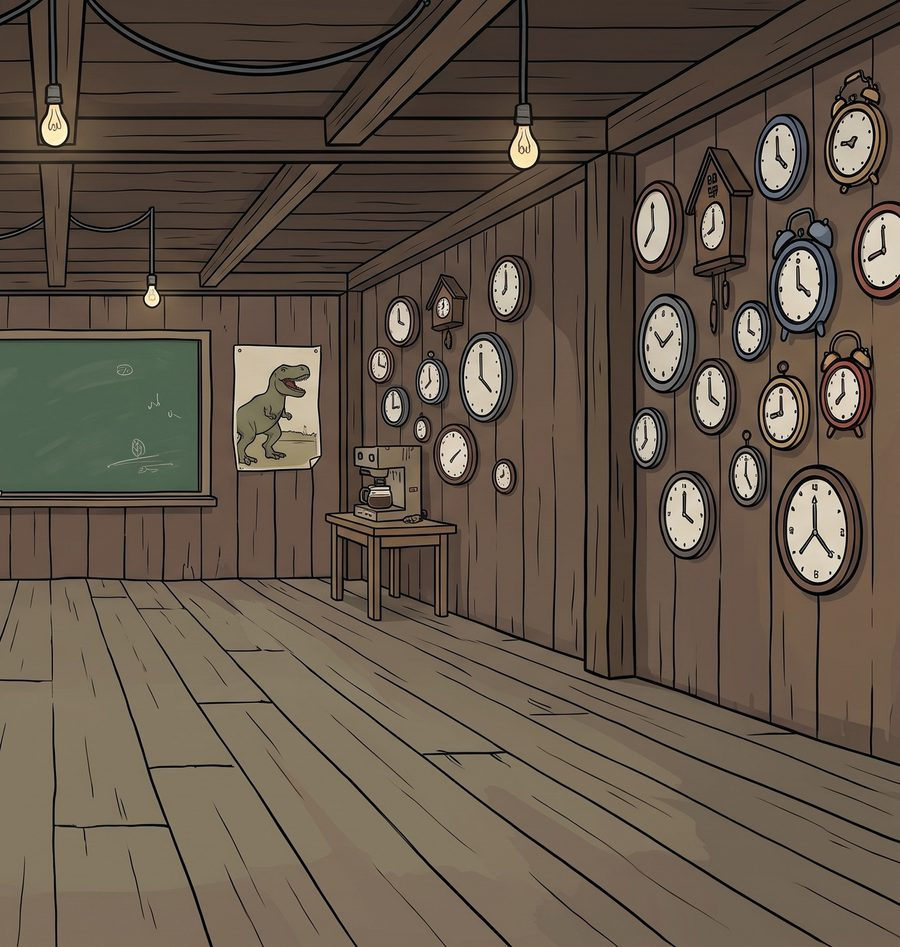
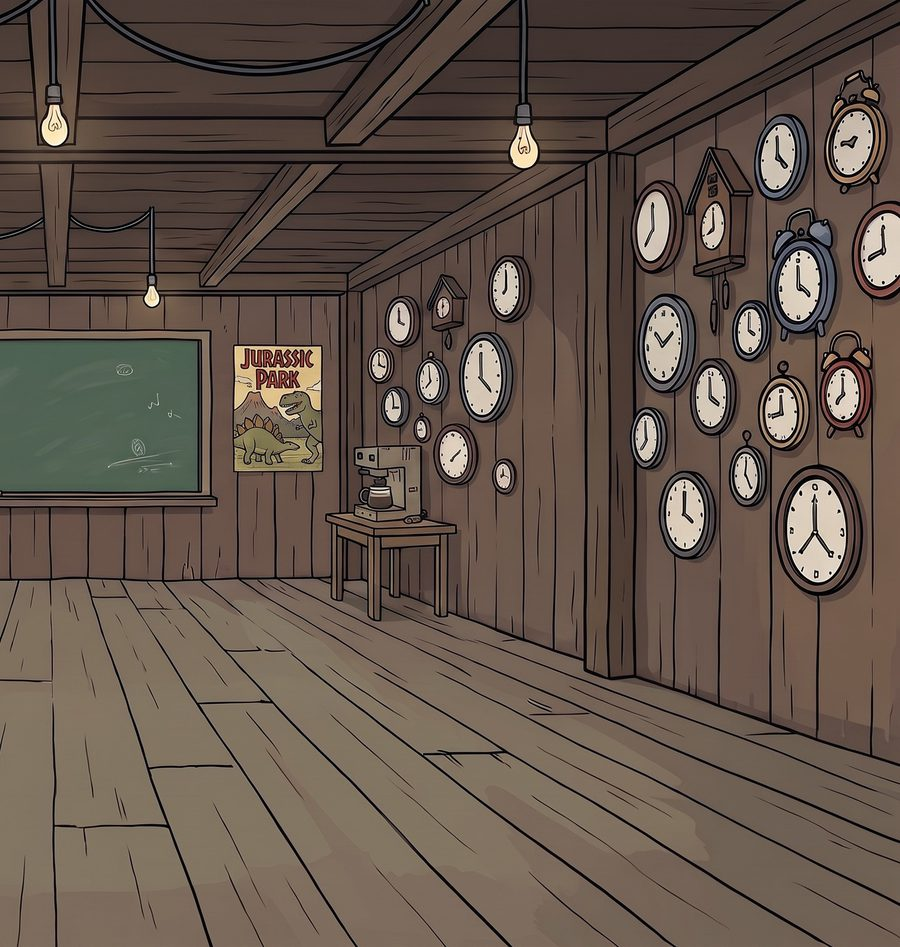
Stickman 設定：實驗室半面牆圖的海報改成 JURASSIC PARK（暴龍＋劍龍）

diff --git a/stickman/characters/index.html b/stickman/characters/index.html
@@ -160,7 +160,7 @@ All four panels show the same room, the same objects and the same colors, as if 
 <div class="grid" style="margin-top:16px">
 <figure><img loading="lazy" src="img/LAB_MACHINE_L.jpg" alt="LAB_MACHINE_L：北牆（時光機那面）左半"><figcaption><b>LAB_MACHINE_L</b>：北牆（時光機那面）左半。時鐘、咖啡機；左側牆：海報、黑板；右緣：時光機左半。</figcaption></figure><figure><img loading="lazy" src="img/LAB_MACHINE_R.jpg" alt="LAB_MACHINE_R：北牆（時光機那面）右半"><figcaption><b>LAB_MACHINE_R</b>：北牆（時光機那面）右半。時光機、拉桿、控制台；右側牆：工作桌、窗。</figcaption></figure><figure><img loading="lazy" src="img/LAB_DOOR_L.jpg" alt="LAB_DOOR_L：南牆（大門那面）左半"><figcaption><b>LAB_DOOR_L</b>：南牆（大門那面）左半。行軍床、窗、門（右緣）；左側牆：窗。</figcaption></figure><figure><img loading="lazy" src="img/LAB_DOOR_R.jpg" alt="LAB_DOOR_R：南牆（大門那面）右半"><figcaption><b>LAB_DOOR_R</b>：南牆（大門那面）右半。門（左緣）、空牆；右側牆：黑板。</figcaption></figure><figure><img loading="lazy" src="img/LAB_CHALK_L.jpg" alt="LAB_CHALK_L：西牆（黑板那面）左半"><figcaption><b>LAB_CHALK_L</b>：西牆（黑板那面）左半。黑板左段；左側牆：門。</figcaption></figure><figure><img loading="lazy" src="img/LAB_CHALK_R.jpg" alt="LAB_CHALK_R：西牆（黑板那面）右半"><figcaption><b>LAB_CHALK_R</b>：西牆（黑板那面）右半。黑板右段、海報、咖啡機；右側牆：時鐘。</figcaption></figure><figure><img loading="lazy" src="img/LAB_BENCH_L.jpg" alt="LAB_BENCH_L：東牆（工作桌那面）左半"><figcaption><b>LAB_BENCH_L</b>：東牆（工作桌那面）左半。工作桌、窗；左側牆：控制台。</figcaption></figure><figure><img loading="lazy" src="img/LAB_BENCH_R.jpg" alt="LAB_BENCH_R：東牆（工作桌那面）右半"><figcaption><b>LAB_BENCH_R</b>：東牆（工作桌那面）右半。窗、行軍床；右側牆：窗。</figcaption></figure>
 </div>
-<p class="note">實驗室格子附參考圖用這 8 張（Flow 裡同名）：每張＝正面牆的左半或右半＋同一側的側牆，符合上面的鏡頭規則。做法：每面牆先畫一張 10 × 9 公尺的整面牆（角落到角落），再從正面牆中線切成左右兩半（重疊約 5%），等於同一位置換窄鏡頭。舊的 8 × 6 整面牆圖（LAB_*_WALL）不再使用。跟地圖小出入：控制台畫在北牆偏右、沒貼緊東北角；東牆右半的行軍床擺在正面牆前，不是順著側牆。</p>
+<p class="note">實驗室格子附參考圖用這 8 張（Flow 裡同名）：每張＝正面牆的左半或右半＋同一側的側牆，符合上面的鏡頭規則。做法：每面牆先畫一張 10 × 9 公尺的整面牆（角落到角落），再從正面牆中線切成左右兩半（重疊約 5%），等於同一位置換窄鏡頭。舊的 8 × 6 整面牆圖（LAB_*_WALL）不再使用。海報＝JURASSIC PARK（暴龍＋劍龍＋片名）：黑板牆和時光機牆兩張原圖照原樣重畫、只換海報（2026-11-14）。跟地圖小出入：控制台畫在北牆偏右、沒貼緊東北角；東牆右半的行軍床擺在正面牆前，不是順著側牆。</p>
 <details><summary>四面整面牆的 prompt（10 × 9 公尺版，切半前的原圖）</summary><p class="note">在 Flow 各開一張，16:9；附舊牆面圖只取畫風和東西長相，位置大小照文字。挑 WALL10-N #2、S #2、W #4、E #2。</p><h3>WALL10-N（附 LAB_MACHINE_WALL、LAB_CHALKBOARD_WALL、LAB_WORKBENCH_WALL）</h3><div class="prompt">16:9, generate 1 image. A background picture for a flat 2D cartoon: thick black outlines, flat colors, simple shading. Use the attached pictures only for the drawing style and for what each object looks like. The attached pictures show the room too small: this room is big, so place and size everything exactly as described below. No characters and no people. No text, letters or numbers anywhere — not on the poster, the clocks or the screens.
 
 The place: one big room, about 10 meters wide and 9 meters deep, on the ground floor of an old wooden hut turned into a cluttered homemade tech lab. Weathered brown wooden plank walls, an old wooden plank floor, a ceiling of exposed wooden beams about 3 meters high with electric cables along them and a few bare light bulbs hanging down. Morning daylight.
